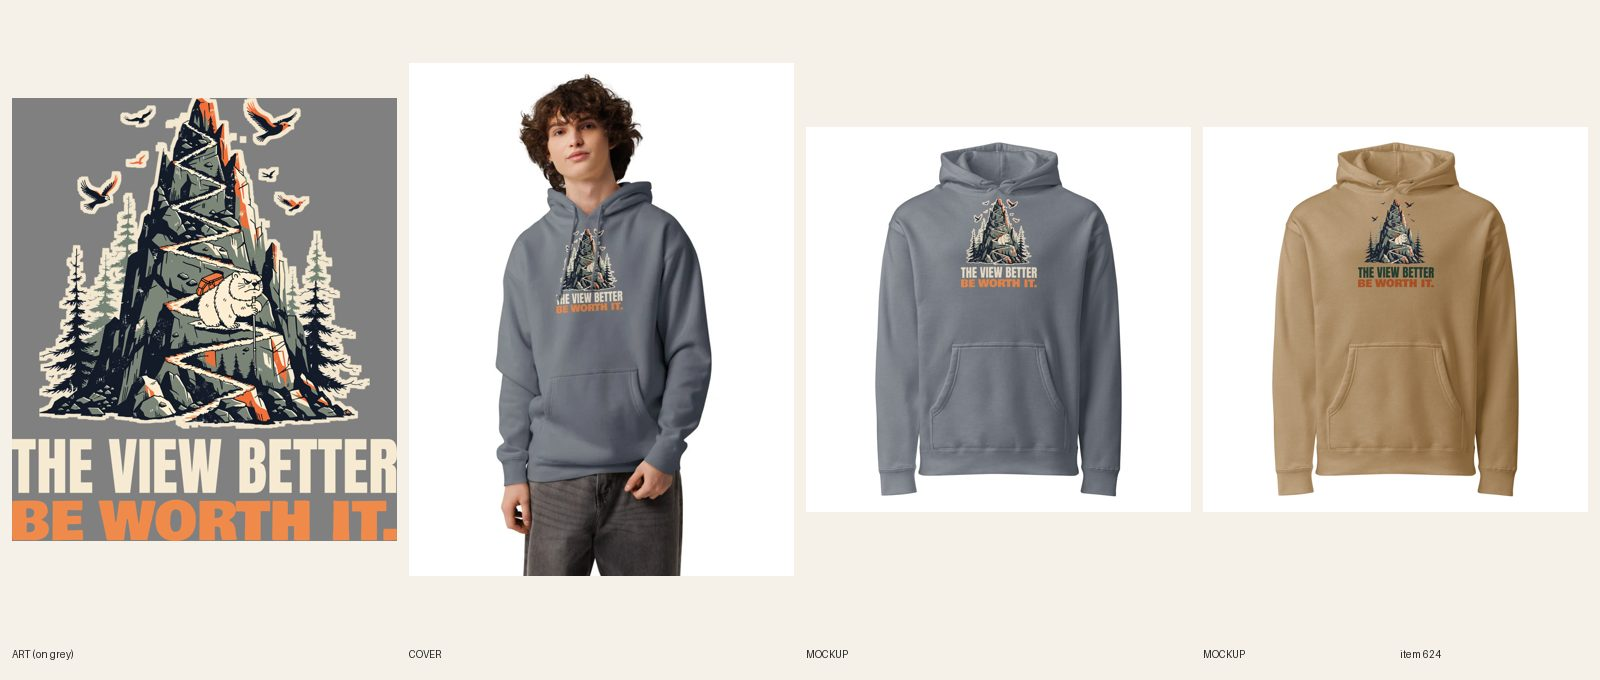
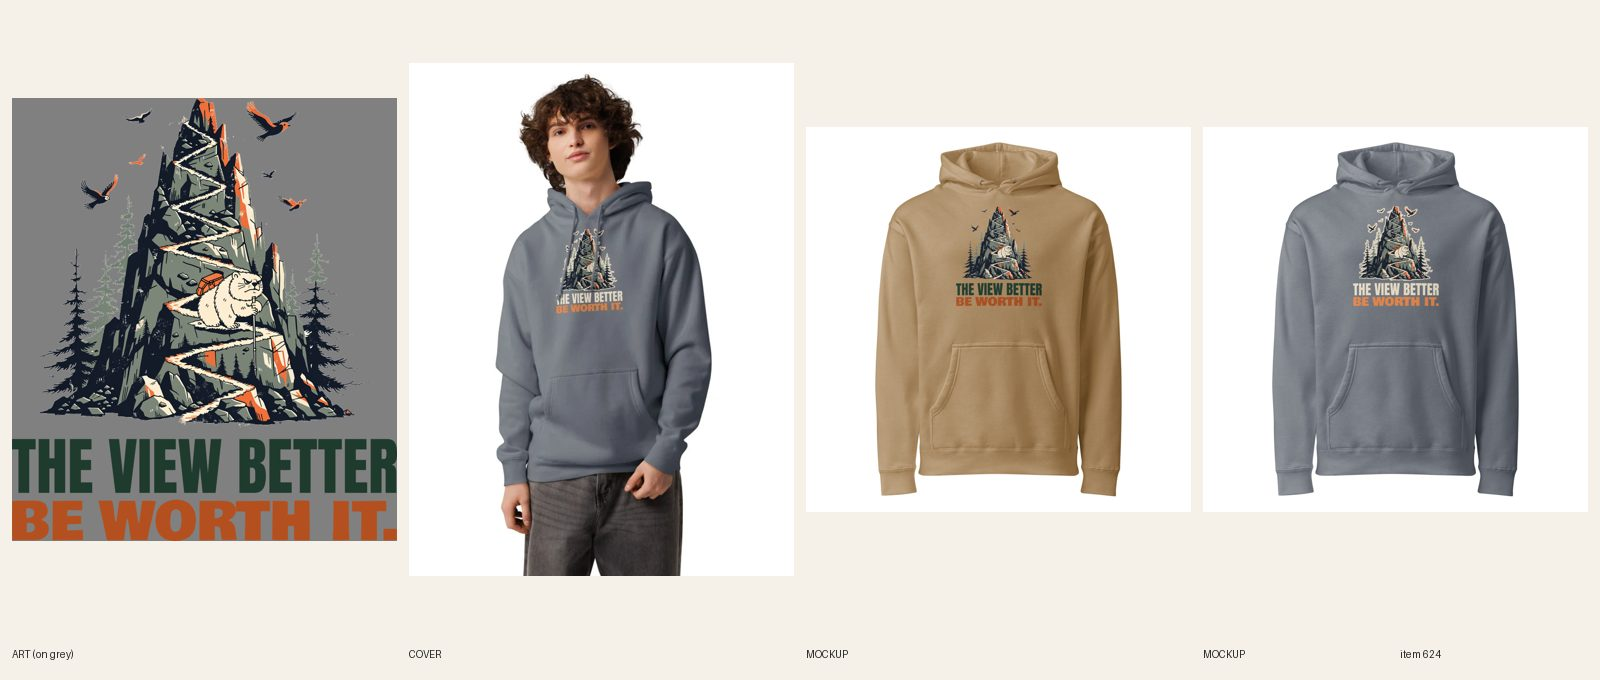
[A] review 624 View Better hoodie: print bigger and lower (FW 1700 TOP 140); lock released
Claude-Session: https://claude.ai/code/session_01Nn5UHxRFpG96we47YwH3X6

Changed region(s): [[0.0, 0.1235, 0.25, 0.8029], [0.5312, 0.2162, 0.7188, 0.7412], [0.7812, 0.2162, 0.9688, 0.7412]]

diff --git a/docs/pipeline/624-national-park-heavyweight-hoodie-switchbacks-build-character.md b/docs/pipeline/624-national-park-heavyweight-hoodie-switchbacks-build-character.md
@@ -32,3 +32,4 @@ kd: 16
 - 2026-10-18 10:18 UTC director: LIVE. BUILD CHARACTER. reads on both mockups and both cover chests. ACTIVE + Online Store/Headless/Google & YouTube; audit --handle PASS 0 warn.
 - 2026-10-18 17:11 UTC Claude: REDO, FIRST of the quality-reset samples (Sam sent this cover back twice). Cover: pasted print sits low/flat/off-angle (R6.10) -> Printful lifestyle mockup or an AI photo whose own print is letter-perfect. Print: headline too thin and small, second line unreadable at phone size -> new line from 5 candidates (R3.12), heavy headline at 90%+ of art width, no thin script (quality-reset.md bar). Same product, stays ACTIVE.
 - 2026-10-18 18:40 UTC builder [A]: quality-reset REDO sample 2 of 5. Five candidate lines (R3.12): Switchbacks Build Character. (old, mild) / THE VIEW BETTER BE WORTH IT. / Just One More Turn (insider, needs the friend backstory) / Marmots Don't Do Cardio (no tie to the picture) / Nature Is Free. The Pain Isn't; kept #2: the grumpy marmot halfway up the zigzag says it for every hiker, 3 seconds, no backstory. Art: same mountain/marmot, cropped from the v2 prints (no fal, $0). Type: headline THE VIEW BETTER in Anton (new font, OFL) at 3380 px = 100% of canvas and 116% of the 2900 px art, BE WORTH IT. in Bowlby One (new font) full width, second line 77% of the headline's height, both heavy, no script. Lockup moved UNDER the art: the hood drawstrings fall across the top of the chest on every Printful lifestyle photo and crossed the V, T and B of a top headline, so they now cross only the mountain and birds. Sandstone file dark green #1f3b2d + rust #b4501f (Printful 1089029156), Storm Blue file cream #f6ead2 + orange #f08a4b with cream halo on the art (1089029168); print 3380 x 3893, FW 1500 TOP 0 (1727 px tall, clear of the pouch seam). R7.7: Sandstone 6/6 on 1089029156, Storm Blue 6/6 on 1089029168, back logo 12/12. New Sandstone + Storm Blue front mockups replace the old in place (back unchanged), read at 400 px. Cover: Printful lifestyle Men's Front style 30240 on Storm Blue (R6.10), crop 600x800; left drawstring tip grazes the edge of the T of THE, every letter readable; removed from retired-covers.json. Unisex rule: a Printful lifestyle shows one person, the audit (cover shows only a man) failed, so I removed the graphic-hoodies-for-women tag; director may want it back with a two-person cover if fal budget allows (same open question as #638). Title, SEO, Story and 5 FAQs (50-58 words, order-by Dec 8) rewritten for the new line and inks; handle kept (live URL). audit --handle PASS 0 warn, astro build OK. Files: designs/a624/build.py, docs/print-files/624-view-*.png. Needs Sam's look.
+- 2026-10-19 05:10 UTC builder [A]: Sam's print fix on #624 (bigger and lower on the chest). Relinked 12/12 at FW 1700 TOP 140 (was FW 1500 TOP 0; print 1958 px tall, ends at 2098 of the 2100 px area, ~45 px of clear fabric above the pouch seam on both mockups): Sandstone 6/6 on 1089029156, Storm Blue 6/6 on 1089029168, back logo 12/12 kept. New Sandstone + Storm Blue front mockups attached to their variants, old two deleted. Both lines read at 400 px. Cover untouched (cover work on hold per Sam 01:05). design-crops refreshed; review sheet regenerated. REVIEW.

diff --git a/docs/intake-log.md b/docs/intake-log.md
@@ -1,4 +1,4 @@
-RUNNING lane A since 2026-10-19 05:01 UTC
+2026-10-19 05:10 UTC — [A] Builder run (quality reset: only open sample work): #624 print enlarged and lowered on the chest (FW 1700 TOP 140, relinked 12/12, mockups swapped), REVIEW. #577/#245/#275/#273 already at REVIEW; sample covers on hold per Sam 01:05. Lock released.
 2026-10-19 04:45 UTC — [H] Helper run: Telegram inbox empty (getUpdates returned 0 updates; no pause, resume or TikTok links; nothing to consume). Audit (597 products): 0 errors, 30 warnings left alone (polish); no meta, SEO, collection or price errors to fix. Category check (one-time rule, still checking): 0 products without a category (positive control returns aa-1-13-8). Site freshness: womens-nana-mom-said-no-thats-cute-crewneck-sweatshirt, mens-welder-i-basically-hot-glue-metal-graphic-tee, mens-christmas-it-looked-smaller-at-the-farm-oversized-hoodie all 200. Stuck check: none (0 items BUILDING; no other lane lock). Daily summary not due (first run after 12:00 UTC is still ahead). Lock released.
 2026-10-19 04:15 UTC — [D] Director run (quality reset still PAUSED: published nothing, wrote no design briefs). Inbox: nothing new since 01:05 (cover hold). No new REVIEW items since 02:13 (only helper commits since the last run), nothing went LIVE so nothing to grade, no niche page newly eligible. Monday R9/R10 check skipped while PAUSED (card step 0: nothing else). No Telegram (not a digest run; Sam's samples, cover and resume calls are already on his list). Lock released.
 2026-10-19 03:45 UTC — [H] Helper run: Telegram inbox empty (getUpdates returned 0 updates; no pause, resume or TikTok links; nothing to consume). Audit (597 products): 0 errors, 30 warnings left alone (polish); no meta, SEO, collection or price errors to fix. Category check (one-time rule, still checking): 0 products without a category. Site freshness: mens-christmas-it-looked-smaller-at-the-farm-oversized-hoodie, mens-welder-i-basically-hot-glue-metal-graphic-tee, womens-nana-mom-said-no-thats-cute-crewneck-sweatshirt all 200. Stuck check: none (0 items BUILDING; no lane lock). Daily summary not due (first run after 12:00 UTC is still ahead). Lock released.
